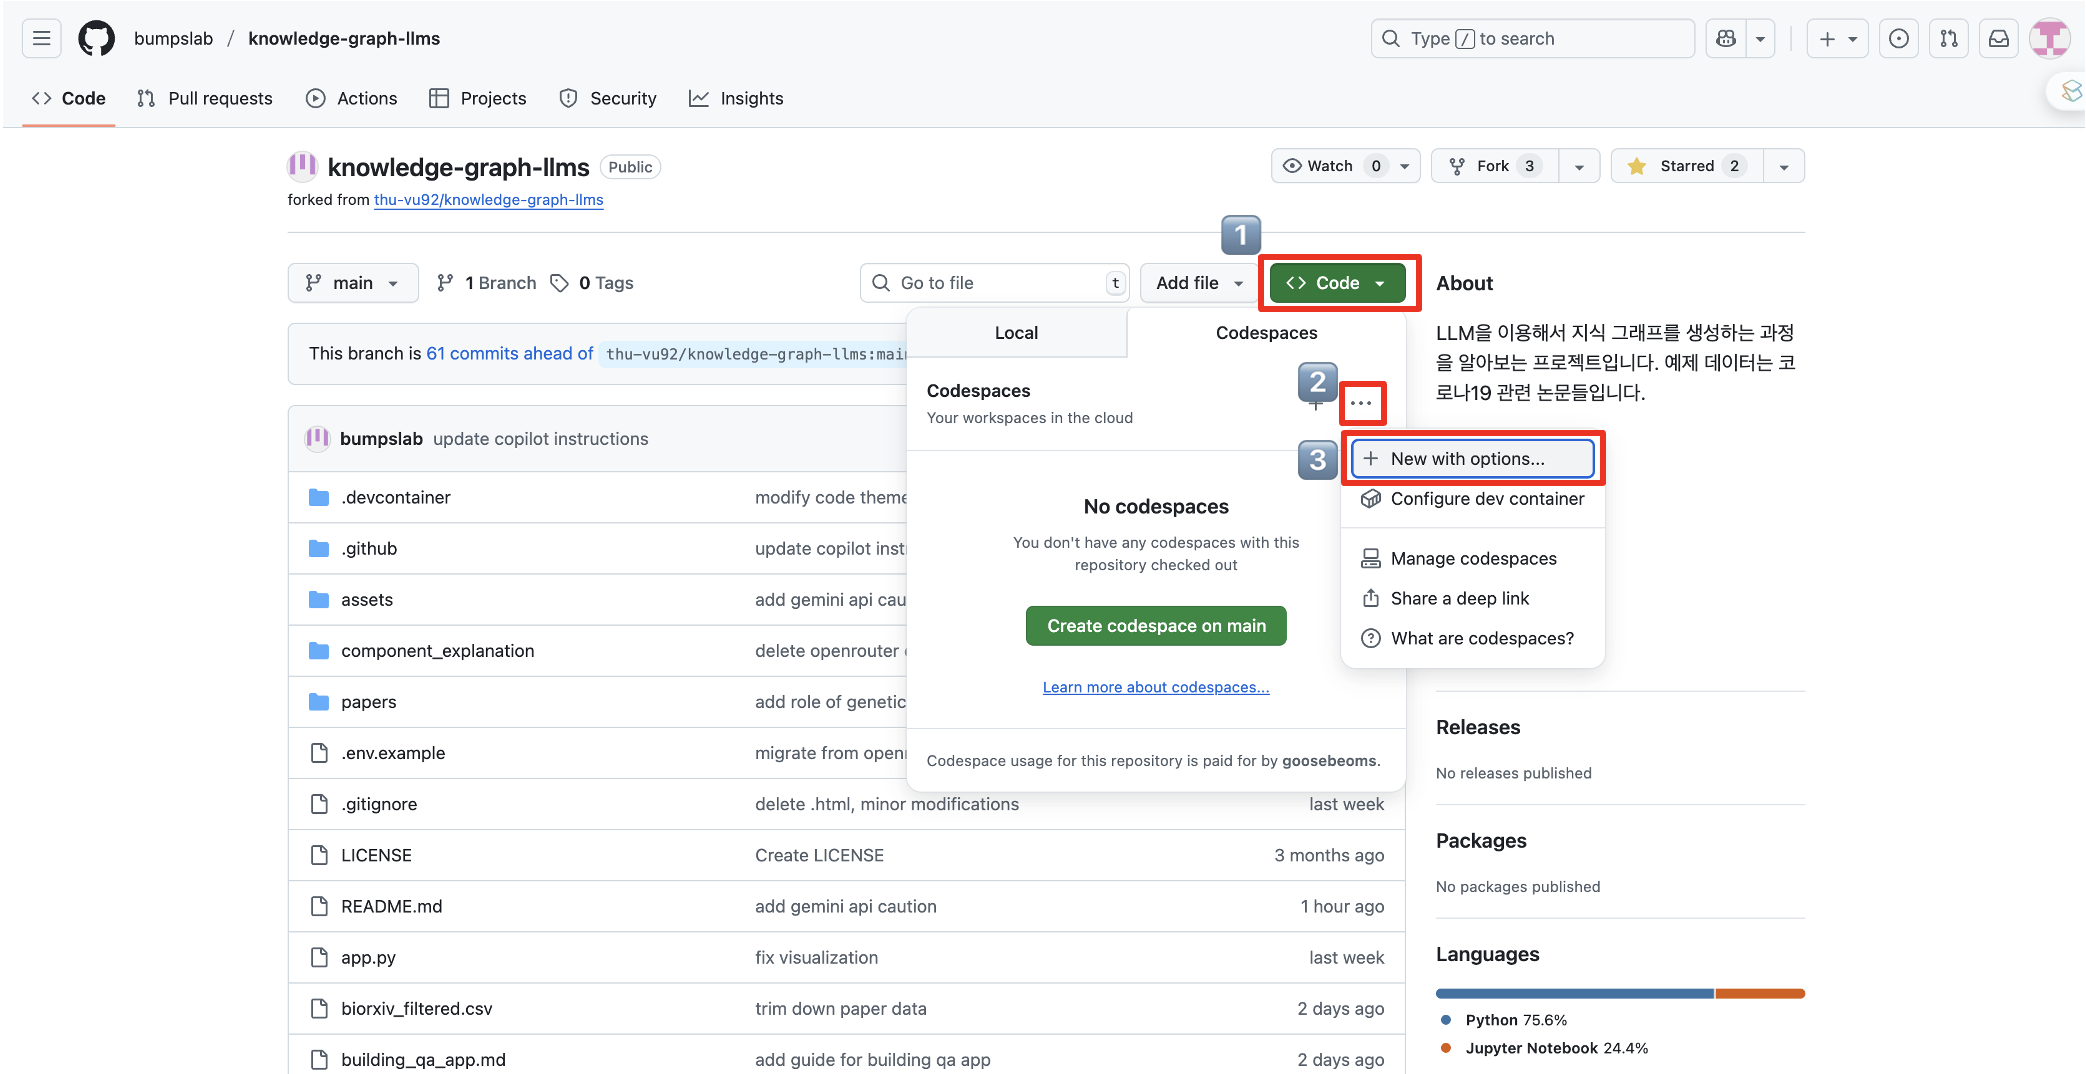
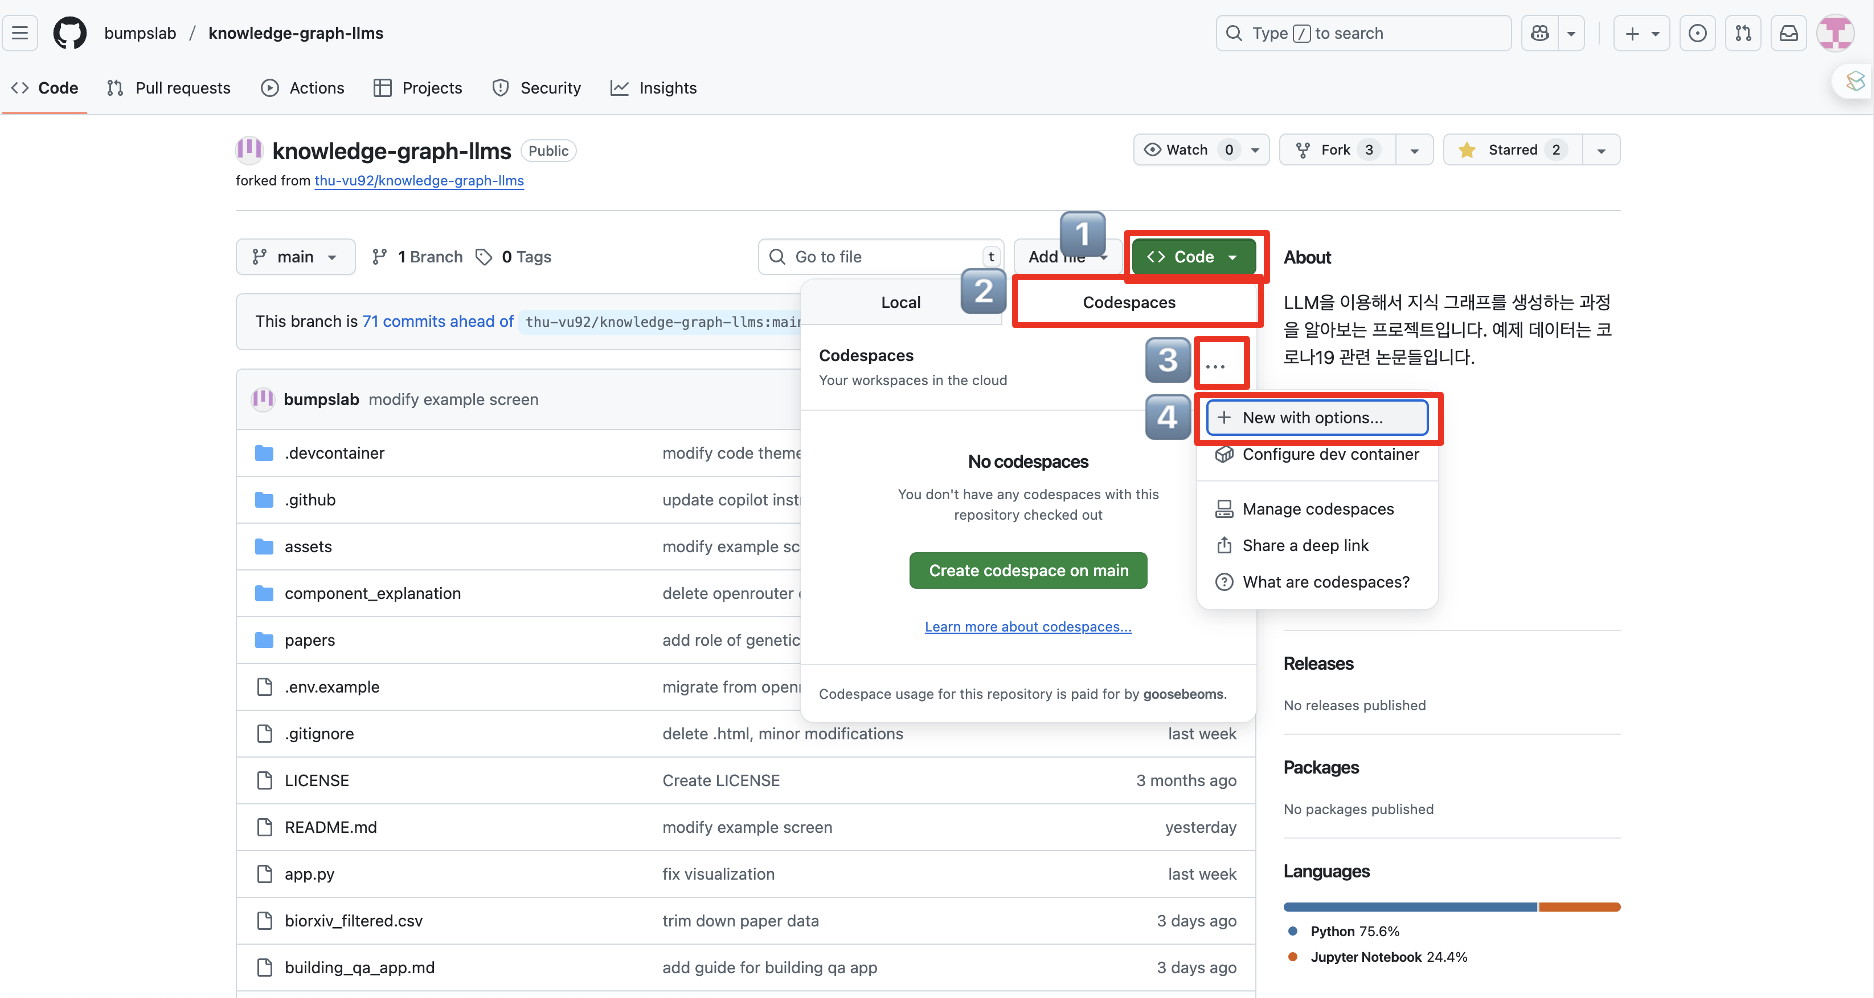
modify generate codespace screenshot

diff --git a/README.md b/README.md
@@ -45,13 +45,12 @@ COVID-19 논문 데이터는 [kaggle](https://www.kaggle.com/code/xhlulu/cord-19
 페이지 로딩 시간이 5분 가량 걸리니 다음 단계로 계속 진행하시면 됩니다.  
 다음과 같은 화면이 나올 시 **`codespace`** 가 정상적으로 만들어진 상황입니다.
 
-![alt text](./assets/example_screen.png)
 ---
 ### 2. Neo4j 설정
 
 1. **새로운 탭 혹은 창에서** [https://neo4j.com/product/auradb/](https://neo4j.com/product/auradb/)로 이동하여 **`Start Free`** 클릭
 2. **`Continue with Google`** 클릭하고 로그인
-3. 각 단계를 거쳐 필요한 정보 입력: **마구잡이로 입력해도 됩니다.**
+3. 각 단계를 거쳐 필요한 정보 입력: **정확하지 않아도 괜찮으니 편하게 입력하시면 됩니다.**
 4. **`Create instance`** 클릭
 5. **`Download to Continue`** 클릭
 ![Alt text](./assets/neo4j_setup.png)
@@ -107,10 +106,11 @@ streamlit run app.py
 이렇게 하면 애플리케이션이 시작됩니다.  
 출력된 링크 주소로 접속해주세요.  
 
-## 사용법
-
+## Knowledge Graph 확인 방법
+### Streamlit 에서 지식 그래프 생성 결과 확인
 1. 사이드바에서 입력 방법을 선택하기 (txt 업로드 또는 텍스트 입력)
 2. 파일을 업로드하는 경우 컴퓨터에서 .txt 파일을 선택하기
+- 실습 zip파일을 압축해제 하시면 예제 .txt파일이 있습니다
 3. 직접 입력을 사용하는 경우 텍스트 영역에 텍스트를 입력하거나 붙여넣기
 4. "Generate Knowledge Graph" 버튼을 클릭하기
 5. 그래프가 생성될 때까지 기다리기 (텍스트 길이에 따라 몇 분 정도 소요될 수 있습니다)
@@ -120,7 +120,8 @@ streamlit run app.py
    - 마우스 휠을 사용하여 확대/축소
    - 특정 노드와 엣지에 대해 그래프 필터링
 
-#### Neo4j 콘솔에서 지식 그래프 생성 결과 확인
+### Neo4j 콘솔에서 지식 그래프 생성 결과 확인
+> 참고: 앞의 방법의 5번까지 실행이 선행되어야 합니다.
 1. Neo4j aura console에서 **`Dashboards`** 클릭 후 Dashboard를 Instance와 연결하기
 ![Alt text](./assets/connect_dashboard.png)
 
@@ -132,7 +133,7 @@ streamlit run app.py
 ## 코드 고도화
 
 1. Github Copilot을 이용해 코드베이스에 대해 질문해보고 기능들에 대해 구체적으로 이해해보세요. [어플리케이션 작동 원리](#어플리케이션-작동-원리)와 [project_structure.md](./project_structure.md)에서도 간략히 확인 가능합니다.
-2. 이 저장소의 **`vibe.example.md`** 를 참고해서 코드를 고도화해봅시다.  
+2. 이 저장소의 [**`vibe.example.md`**](./vibe.example.md) 를 참고해서 코드를 고도화해봅시다.  
    > 꼭 예제의 흐름대로 가지 않으셔도 됩니다. 자유롭게 시도해보세요.
 3. 코드 수정 및 고도화를 진행해보면서 버전관리를 같이 진행해보세요.
    > **기본 git 개념과 git 명령어들을 학습해보세요.**  
